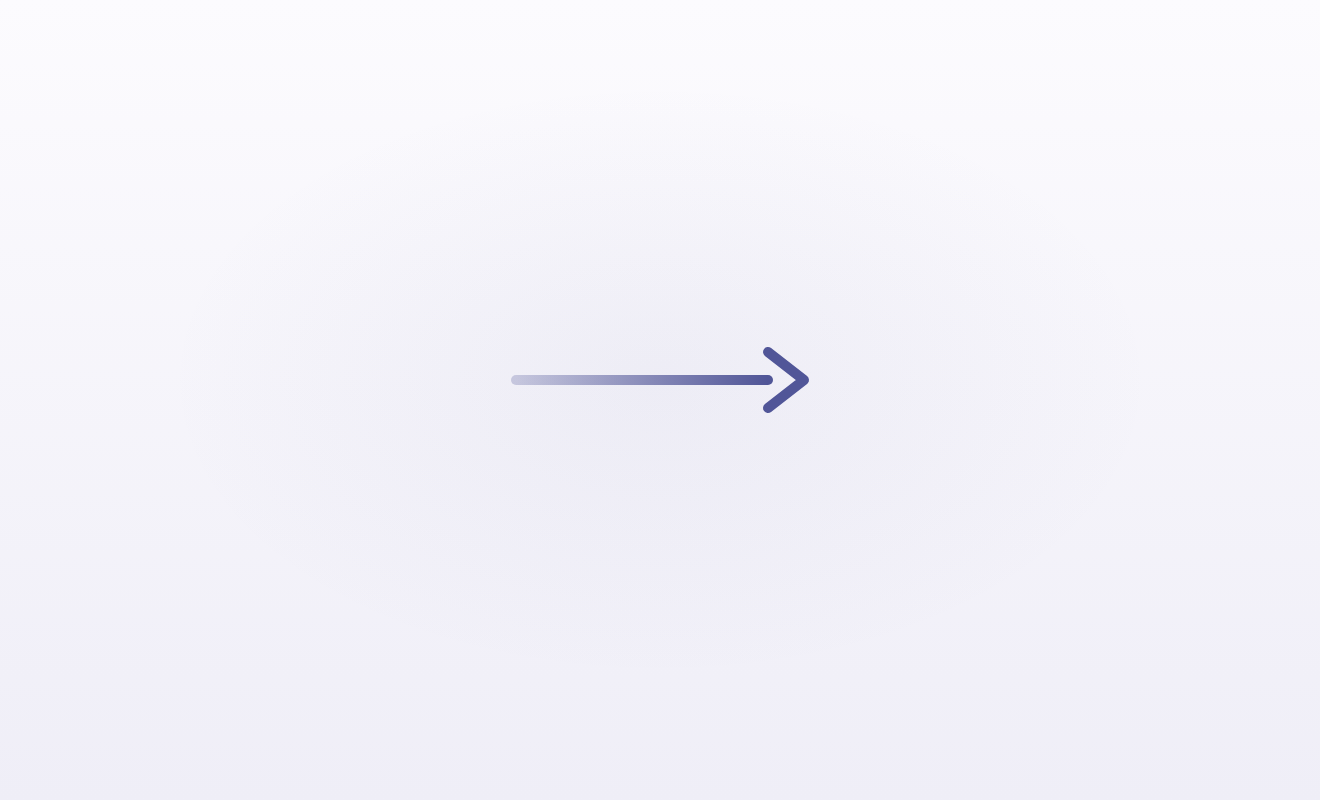
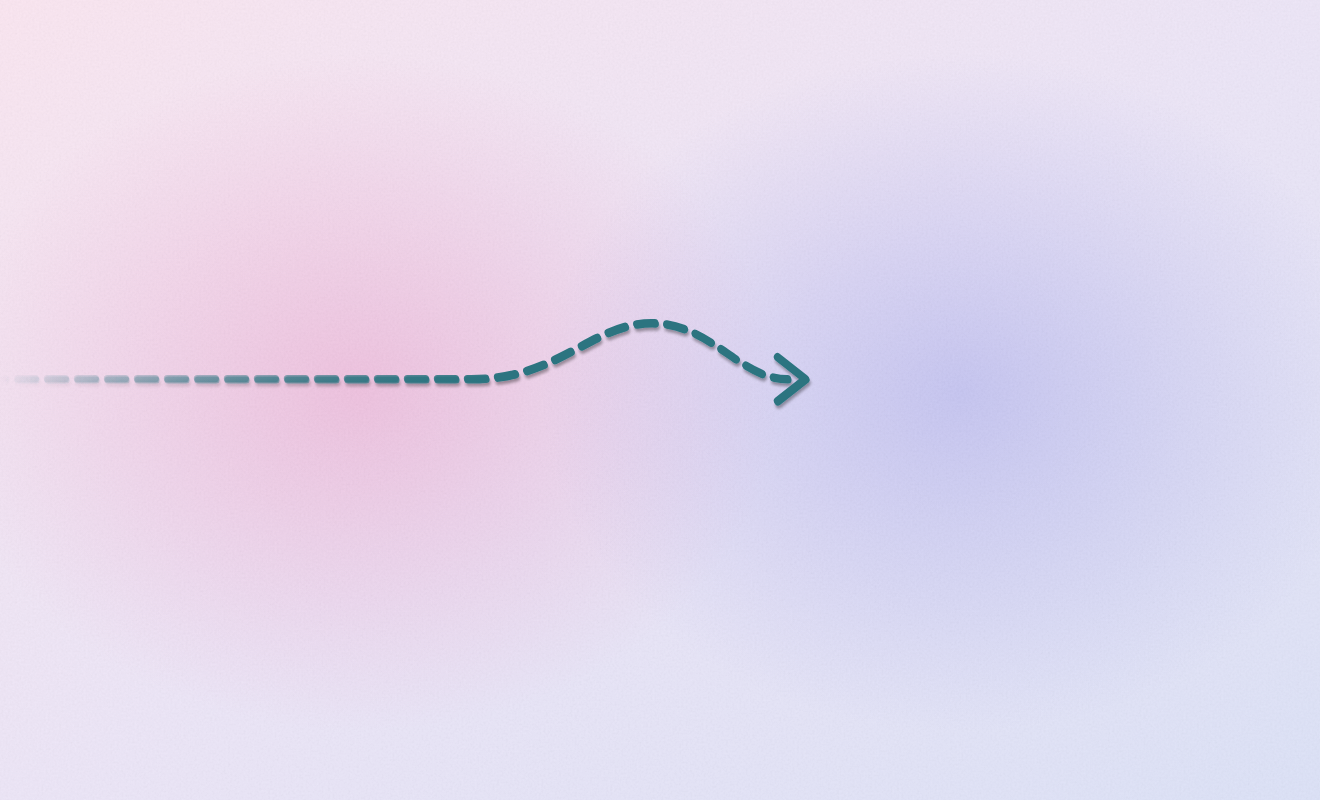
feat(dmg): sew the install arrow from Juno's own thread (LAC-7607)
The DMG window was a pale field with a single violet arrow. The new art
carries the app icon's teal running stitch out of the icon and across to
Applications, over a felt-textured pink/periwinkle field sampled from the
icon. Geometry is unchanged, so verify-dmg.sh needs no edit.

The field stays light: Finder's labels are always black (13.6:1 here).

diff --git a/src-tauri/dmg/README.md b/src-tauri/dmg/README.md
@@ -87,17 +87,32 @@ re-uploads it over the copy `tauri-action` attached.
 
 ## Design notes
 
+**The arrow is Juno's thread.** The app icon is hand-felted and outlined in a
+teal running stitch. The arrow is that thread carried on: it comes in from the
+left edge, passes behind the Juno icon (Finder draws the icon over it), lifts
+out in a shallow arc and is sewn across to Applications, finishing in a
+stitched chevron. Each stitch casts a tight shadow and carries a thin sheen
+line; without those two the dashes read as a generic dotted arrow. The thread
+fades in from the left: direction of travel, stated without an animation we
+cannot play. (LAC-7607, after Superwhisper's waveform-as-arrow. The idea is
+borrowed, every asset is ours.)
+
 **The field is light on purpose.** Finder draws disk-image icon labels in
 black in *both* light and dark appearance, and that colour cannot be
-configured — only label size and position live in the `.DS_Store`. A dark
-background therefore needs capsules painted behind each label to stay legible
-(this is why Exodus's DMG art has two light pills in it). A light field needs
-no such device: black on `#EFEEF7` is 18.2:1. **Do not darken this art without
-re-solving that problem.**
+configured; only label size and position live in the `.DS_Store`. A dark
+background needs capsules painted behind each label to stay legible (this is
+why Exodus's DMG art has two light pills in it). Superwhisper's dark DMG skips
+the capsules, and its labels are close to invisible. A light field needs no
+such device: the darkest point of the label band is `#CDCDED`, where black is
+13.6:1. **Do not darken the lower half of this art without re-solving that
+problem.**
 
-**The palette is sampled from the app icon**, not invented: `#484D92` is the
-felt violet from the icon's lower-left corner. The arrow is the only saturated
-mark, at 7.3:1 on the field.
+**The palette is sampled from the app icon**, not invented: pink `#E8569B`
+(top-left felt) and periwinkle `#7178E1` (top-right) as the two pools under the
+icons, over a pastel diagonal of the same pair; thread `#2C7480`, the icon's
+stitching deepened so it clears 3:1 on the field (3.5:1). A fine fractal-noise
+fibre is multiplied in at 7% so the field reads as felt and not as a CSS
+gradient.
 
 **No words.** The volume is named "Juno", so Finder already puts that in the
 title bar, and it labels both icons itself. An instruction line would need
